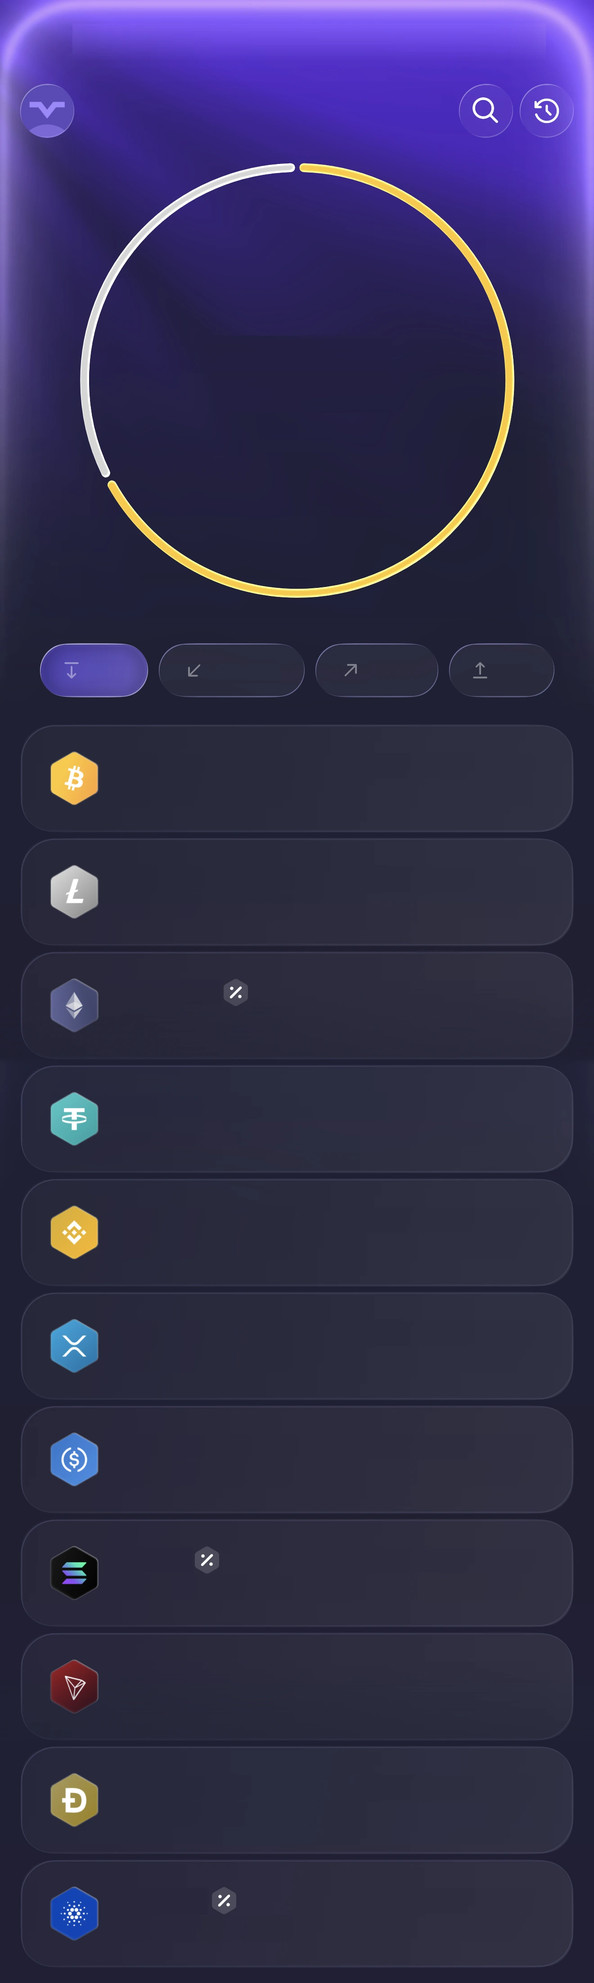
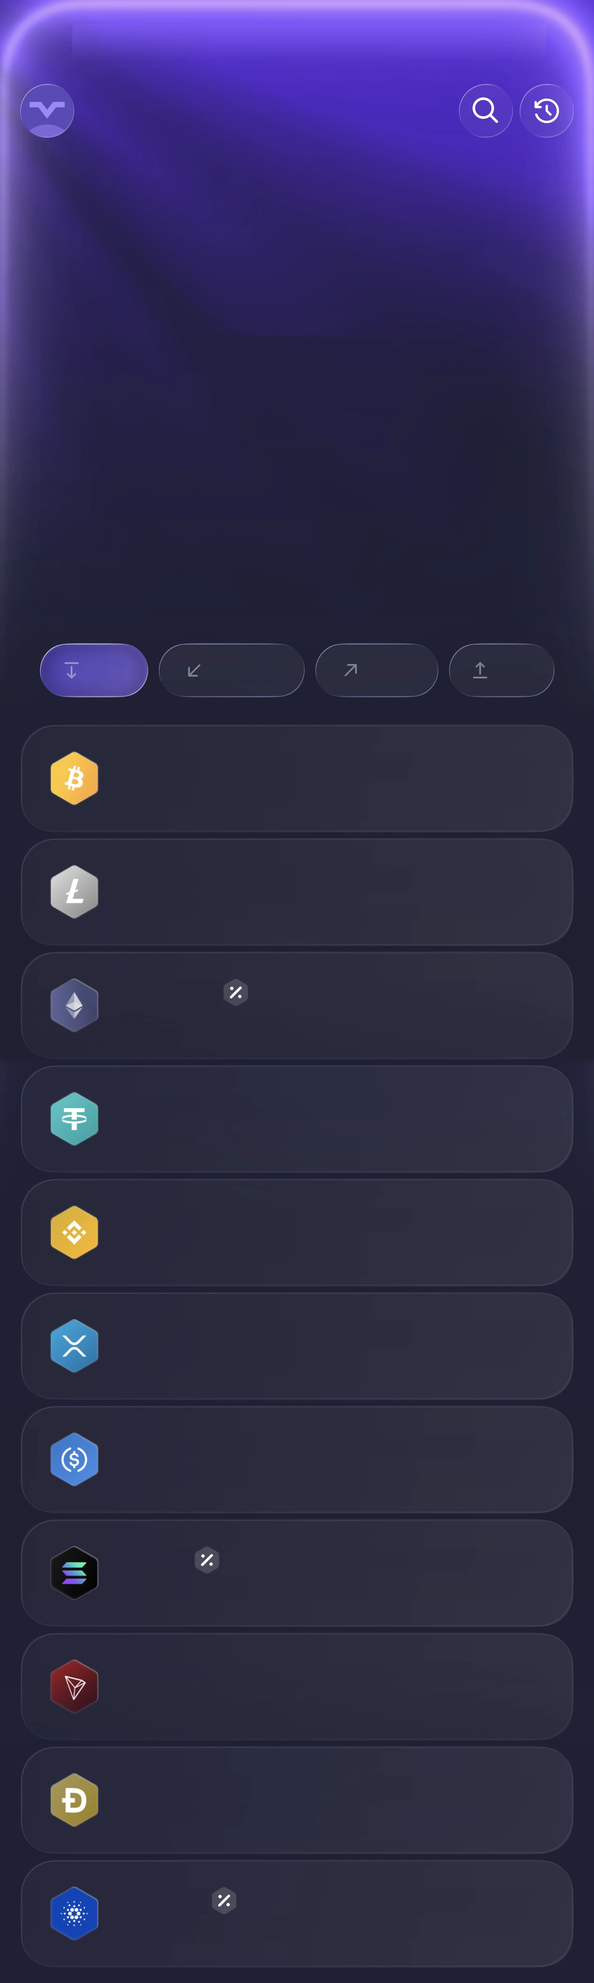
Wallet: ring split by coin value, balance shrinks to fit, remove hidden-balance dots
Claude-Session: https://claude.ai/code/session_01SBE1Cu7BgedHNHESR53XK2

diff --git a/walletui/cfg.js b/walletui/cfg.js
@@ -1,1 +1,1 @@
-const CFG={"wallet": {"ar": 0.29986369831894594, "items": [{"runs": [], "a": "l", "op": 1, "erase": true, "mode": "v", "box": [12.196969696969697, 1.1812812358019082, 79.6969696969697, 1.9763743752839618]}, {"runs": [{"t": "$", "s": 4.777, "c": "#8a8aa0", "w": 500}, {"t": "18", "s": 16.287, "c": "#ffffff", "w": 600}, {"t": ".18", "s": 6.08, "c": "#8a8aa0", "w": 500}], "a": "c", "op": 1, "erase": true, "k": "bal", "box": [35.833333333333336, 16.924125397546568, 30.37878787878788, 3.907314856883235]}, {"runs": [{"t": "$", "s": 4.777, "c": "#8a8aa0", "w": 500}, {"t": "\u25cf\u25cf\u25cf\u25cf\u25cf", "s": 3.692, "c": "#ffffff", "w": 500}], "a": "c", "op": 1, "erase": false, "k": "dots", "hid": true, "box": [33.63636363636363, 18.400726942298956, 30.454545454545457, 1.6129032258064515]}, {"runs": [{"t": "Wallet", "s": 3.257, "c": "#a6a6b6", "w": 500}], "a": "c", "op": 1, "erase": true, "box": [43.93939393939394, 21.33121308496138, 12.196969696969697, 1.4538845979100408]}, {"runs": [{"t": "Buy", "s": 3.257, "c": "#ffffff", "w": 500}], "a": "l", "op": 1, "erase": true, "box": [15.0, 33.28032712403453, 6.0606060606060606, 1.1585642889595638]}, {"runs": [{"t": "Receive", "s": 3.257, "c": "#a6a6b6", "w": 500}], "a": "l", "op": 1, "erase": true, "box": [35.90909090909091, 33.28032712403453, 11.212121212121213, 1.1585642889595638]}, {"runs": [{"t": "Send", "s": 3.257, "c": "#a6a6b6", "w": 500}], "a": "l", "op": 1, "erase": true, "box": [62.196969696969695, 33.28032712403453, 7.5, 1.1585642889595638]}, {"runs": [{"t": "Sell", "s": 3.257, "c": "#a6a6b6", "w": 500}], "a": "l", "op": 1, "erase": true, "box": [84.01515151515152, 33.28032712403453, 5.454545454545454, 1.1585642889595638]}, {"runs": [{"t": "Bitcoin", "s": 3.583, "c": "#ffffff", "w": 600}], "a": "l", "op": 1, "erase": true, "box": [20.37878787878788, 38.00545206724216, 32.57575757575758, 1.29486597001363]}, {"runs": [{"t": "$81,582.00 ", "s": 3.149, "c": "#a6a6b6", "w": 500}], "a": "l", "op": 1, "erase": true, "k": "price", "s": "BTC", "box": [20.37878787878788, 39.368468877782824, 29.015151515151516, 1.29486597001363]}, {"runs": [{"t": "0", "s": 3.583, "c": "#ffffff", "w": 600}], "a": "r", "op": 1, "erase": true, "k": "amt", "s": "BTC", "box": [58.63636363636363, 38.00545206724216, 33.63636363636363, 1.29486597001363]}, {"runs": [{"t": "$0", "s": 3.149, "c": "#a6a6b6", "w": 500}], "a": "r", "op": 1, "erase": true, "k": "fiat", "s": "BTC", "box": [73.86363636363636, 39.368468877782824, 18.409090909090907, 1.29486597001363]}, {"runs": [{"t": "BTC", "s": 3.583, "c": "#d8d8e4", "w": 600}], "a": "r", "op": 1, "erase": true, "k": "sym", "s": "BTC", "box": [79.77272727272727, 38.52794184461608, 12.727272727272727, 1.4311676510676965]}, {"runs": [{"t": "Litecoin", "s": 3.583, "c": "#ffffff", "w": 600}], "a": "l", "op": 1, "erase": true, "box": [20.37878787878788, 43.68468877782826, 32.57575757575758, 1.3175829168559745]}, {"runs": [{"t": "$59.31 ", "s": 3.149, "c": "#a6a6b6", "w": 500}, {"t": "+0.5%", "s": 3.149, "c": "#6bd62a", "w": 500}], "a": "l", "op": 1, "erase": true, "k": "price", "s": "LTC", "box": [20.37878787878788, 45.07042253521127, 29.015151515151516, 1.29486597001363]}, {"runs": [{"t": "0", "s": 3.583, "c": "#ffffff", "w": 600}], "a": "r", "op": 1, "erase": true, "k": "amt", "s": "LTC", "box": [58.63636363636363, 43.68468877782826, 33.63636363636363, 1.3175829168559745]}, {"runs": [{"t": "$0", "s": 3.149, "c": "#a6a6b6", "w": 500}], "a": "r", "op": 1, "erase": true, "k": "fiat", "s": "LTC", "box": [73.86363636363636, 45.07042253521127, 18.409090909090907, 1.29486597001363]}, {"runs": [{"t": "LTC", "s": 3.583, "c": "#d8d8e4", "w": 600}], "a": "r", "op": 1, "erase": true, "k": "sym", "s": "LTC", "box": [79.77272727272727, 44.207178555202184, 12.727272727272727, 1.4311676510676965]}, {"runs": [{"t": "Ethereum", "s": 3.583, "c": "#ffffff", "w": 600}], "a": "l", "op": 1, "erase": true, "mode": "f", "box": [20.37878787878788, 49.386642435256704, 16.893939393939394, 1.3175829168559745]}, {"runs": [{"t": "$2,386.95 ", "s": 3.149, "c": "#a6a6b6", "w": 500}, {"t": "-1.4%", "s": 3.149, "c": "#8a8a9a", "w": 500}], "a": "l", "op": 1, "erase": true, "k": "price", "s": "ETH", "box": [20.37878787878788, 50.74965924579736, 29.015151515151516, 1.3175829168559745]}, {"runs": [{"t": "0", "s": 3.583, "c": "#ffffff", "w": 600}], "a": "r", "op": 1, "erase": true, "k": "amt", "s": "ETH", "box": [58.63636363636363, 49.386642435256704, 33.63636363636363, 1.3175829168559745]}, {"runs": [{"t": "$0", "s": 3.149, "c": "#a6a6b6", "w": 500}], "a": "r", "op": 1, "erase": true, "k": "fiat", "s": "ETH", "box": [73.86363636363636, 50.74965924579736, 18.409090909090907, 1.3175829168559745]}, {"runs": [{"t": "ETH", "s": 3.583, "c": "#d8d8e4", "w": 600}], "a": "r", "op": 1, "erase": true, "k": "sym", "s": "ETH", "box": [79.77272727272727, 49.909132212630624, 12.727272727272727, 1.4311676510676965]}, {"runs": [{"t": "Tether USD", "s": 3.583, "c": "#ffffff", "w": 600}], "a": "l", "op": 1, "erase": true, "box": [20.37878787878788, 55.11131303952749, 32.57575757575758, 1.29486597001363]}, {"runs": [{"t": "$0.9991 ", "s": 3.149, "c": "#a6a6b6", "w": 500}, {"t": "+0.9%", "s": 3.149, "c": "#6bd62a", "w": 500}], "a": "l", "op": 1, "erase": true, "k": "price", "s": "USDT", "box": [20.37878787878788, 56.47432985006815, 29.015151515151516, 1.29486597001363]}, {"runs": [{"t": "0", "s": 3.583, "c": "#ffffff", "w": 600}], "a": "r", "op": 1, "erase": true, "k": "amt", "s": "USDT", "box": [58.63636363636363, 55.11131303952749, 33.63636363636363, 1.29486597001363]}, {"runs": [{"t": "$0", "s": 3.149, "c": "#a6a6b6", "w": 500}], "a": "r", "op": 1, "erase": true, "k": "fiat", "s": "USDT", "box": [73.86363636363636, 56.47432985006815, 18.409090909090907, 1.29486597001363]}, {"runs": [{"t": "USDT", "s": 3.583, "c": "#d8d8e4", "w": 600}], "a": "r", "op": 1, "erase": true, "k": "sym", "s": "USDT", "box": [79.77272727272727, 55.633802816901415, 12.727272727272727, 1.4311676510676965]}, {"runs": [{"t": "BNB", "s": 3.583, "c": "#ffffff", "w": 600}], "a": "l", "op": 1, "erase": true, "box": [20.37878787878788, 60.83598364379827, 32.57575757575758, 1.29486597001363]}, {"runs": [{"t": "$727.43 ", "s": 3.149, "c": "#a6a6b6", "w": 500}, {"t": "-0.5%", "s": 3.149, "c": "#8a8a9a", "w": 500}], "a": "l", "op": 1, "erase": true, "k": "price", "s": "BNB", "box": [20.37878787878788, 62.199000454338936, 29.015151515151516, 1.3175829168559745]}, {"runs": [{"t": "0", "s": 3.583, "c": "#ffffff", "w": 600}], "a": "r", "op": 1, "erase": true, "k": "amt", "s": "BNB", "box": [58.63636363636363, 60.83598364379827, 33.63636363636363, 1.29486597001363]}, {"runs": [{"t": "$0", "s": 3.149, "c": "#a6a6b6", "w": 500}], "a": "r", "op": 1, "erase": true, "k": "fiat", "s": "BNB", "box": [73.86363636363636, 62.199000454338936, 18.409090909090907, 1.3175829168559745]}, {"runs": [{"t": "BNB", "s": 3.583, "c": "#d8d8e4", "w": 600}], "a": "r", "op": 1, "erase": true, "k": "sym", "s": "BNB", "box": [79.77272727272727, 61.3584734211722, 12.727272727272727, 1.4311676510676965]}, {"runs": [{"t": "XRP", "s": 3.583, "c": "#ffffff", "w": 600}], "a": "l", "op": 1, "erase": true, "box": [20.37878787878788, 66.56065424806906, 32.57575757575758, 1.3175829168559745]}, {"runs": [{"t": "$1.32 ", "s": 3.149, "c": "#a6a6b6", "w": 500}, {"t": "-1.4%", "s": 3.149, "c": "#8a8a9a", "w": 500}], "a": "l", "op": 1, "erase": true, "k": "price", "s": "XRP", "box": [20.37878787878788, 67.92367105860973, 29.015151515151516, 1.3175829168559745]}, {"runs": [{"t": "0", "s": 3.583, "c": "#ffffff", "w": 600}], "a": "r", "op": 1, "erase": true, "k": "amt", "s": "XRP", "box": [58.63636363636363, 66.56065424806906, 33.63636363636363, 1.3175829168559745]}, {"runs": [{"t": "$0", "s": 3.149, "c": "#a6a6b6", "w": 500}], "a": "r", "op": 1, "erase": true, "k": "fiat", "s": "XRP", "box": [73.86363636363636, 67.92367105860973, 18.409090909090907, 1.3175829168559745]}, {"runs": [{"t": "XRP", "s": 3.583, "c": "#d8d8e4", "w": 600}], "a": "r", "op": 1, "erase": true, "k": "sym", "s": "XRP", "box": [79.77272727272727, 67.08314402544298, 12.727272727272727, 1.4311676510676965]}, {"runs": [{"t": "USDC", "s": 3.583, "c": "#ffffff", "w": 600}], "a": "l", "op": 1, "erase": true, "box": [20.37878787878788, 72.28532485233985, 32.57575757575758, 1.3175829168559745]}, {"runs": [{"t": "$0.9996 ", "s": 3.149, "c": "#a6a6b6", "w": 500}, {"t": "+0.2%", "s": 3.149, "c": "#6bd62a", "w": 500}], "a": "l", "op": 1, "erase": true, "k": "price", "s": "USDC", "box": [20.37878787878788, 73.67105860972285, 29.015151515151516, 1.29486597001363]}, {"runs": [{"t": "0", "s": 3.583, "c": "#ffffff", "w": 600}], "a": "r", "op": 1, "erase": true, "k": "amt", "s": "USDC", "box": [58.63636363636363, 72.28532485233985, 33.63636363636363, 1.3175829168559745]}, {"runs": [{"t": "$0", "s": 3.149, "c": "#a6a6b6", "w": 500}], "a": "r", "op": 1, "erase": true, "k": "fiat", "s": "USDC", "box": [73.86363636363636, 73.67105860972285, 18.409090909090907, 1.29486597001363]}, {"runs": [{"t": "USDC", "s": 3.583, "c": "#d8d8e4", "w": 600}], "a": "r", "op": 1, "erase": true, "k": "sym", "s": "USDC", "box": [79.77272727272727, 72.80781462971376, 12.727272727272727, 1.4311676510676965]}, {"runs": [{"t": "Solana", "s": 3.583, "c": "#ffffff", "w": 600}], "a": "l", "op": 1, "erase": true, "mode": "f", "box": [20.37878787878788, 78.03271240345298, 12.196969696969697, 1.29486597001363]}, {"runs": [{"t": "$104.18 ", "s": 3.149, "c": "#a6a6b6", "w": 500}, {"t": "+0.5%", "s": 3.149, "c": "#6bd62a", "w": 500}], "a": "l", "op": 1, "erase": true, "k": "price", "s": "SOL", "box": [20.37878787878788, 79.39572921399363, 29.015151515151516, 1.29486597001363]}, {"runs": [{"t": "0", "s": 3.583, "c": "#ffffff", "w": 600}], "a": "r", "op": 1, "erase": true, "k": "amt", "s": "SOL", "box": [58.63636363636363, 78.03271240345298, 33.63636363636363, 1.29486597001363]}, {"runs": [{"t": "$0", "s": 3.149, "c": "#a6a6b6", "w": 500}], "a": "r", "op": 1, "erase": true, "k": "fiat", "s": "SOL", "box": [73.86363636363636, 79.39572921399363, 18.409090909090907, 1.29486597001363]}, {"runs": [{"t": "SOL", "s": 3.583, "c": "#d8d8e4", "w": 600}], "a": "r", "op": 1, "erase": true, "k": "sym", "s": "SOL", "box": [79.77272727272727, 78.5552021808269, 12.727272727272727, 1.4311676510676965]}, {"runs": [{"t": "Tron", "s": 3.583, "c": "#ffffff", "w": 600}], "a": "l", "op": 1, "erase": true, "box": [20.37878787878788, 83.75738300772376, 32.57575757575758, 1.29486597001363]}, {"runs": [{"t": "$0.3299 ", "s": 3.149, "c": "#a6a6b6", "w": 500}, {"t": "-0.1%", "s": 3.149, "c": "#8a8a9a", "w": 500}], "a": "l", "op": 1, "erase": true, "k": "price", "s": "TRX", "box": [20.37878787878788, 85.12039981826443, 29.015151515151516, 1.29486597001363]}, {"runs": [{"t": "0", "s": 3.583, "c": "#ffffff", "w": 600}], "a": "r", "op": 1, "erase": true, "k": "amt", "s": "TRX", "box": [58.63636363636363, 83.75738300772376, 33.63636363636363, 1.29486597001363]}, {"runs": [{"t": "$0", "s": 3.149, "c": "#a6a6b6", "w": 500}], "a": "r", "op": 1, "erase": true, "k": "fiat", "s": "TRX", "box": [73.86363636363636, 85.12039981826443, 18.409090909090907, 1.29486597001363]}, {"runs": [{"t": "TRX", "s": 3.583, "c": "#d8d8e4", "w": 600}], "a": "r", "op": 1, "erase": true, "k": "sym", "s": "TRX", "box": [79.77272727272727, 84.27987278509768, 12.727272727272727, 1.4311676510676965]}, {"runs": [{"t": "Dogecoin", "s": 3.583, "c": "#ffffff", "w": 600}], "a": "l", "op": 1, "erase": true, "box": [20.37878787878788, 89.50477055883688, 32.57575757575758, 1.29486597001363]}, {"runs": [{"t": "$0.0794 ", "s": 3.149, "c": "#a6a6b6", "w": 500}, {"t": "-2.6%", "s": 3.149, "c": "#8a8a9a", "w": 500}], "a": "l", "op": 1, "erase": true, "k": "price", "s": "DOGE", "box": [20.37878787878788, 90.86778736937755, 29.015151515151516, 1.29486597001363]}, {"runs": [{"t": "0", "s": 3.583, "c": "#ffffff", "w": 600}], "a": "r", "op": 1, "erase": true, "k": "amt", "s": "DOGE", "box": [58.63636363636363, 89.50477055883688, 33.63636363636363, 1.29486597001363]}, {"runs": [{"t": "$0", "s": 3.149, "c": "#a6a6b6", "w": 500}], "a": "r", "op": 1, "erase": true, "k": "fiat", "s": "DOGE", "box": [73.86363636363636, 90.86778736937755, 18.409090909090907, 1.29486597001363]}, {"runs": [{"t": "DOGE", "s": 3.583, "c": "#d8d8e4", "w": 600}], "a": "r", "op": 1, "erase": true, "k": "sym", "s": "DOGE", "box": [79.77272727272727, 90.02726033621082, 12.727272727272727, 1.4311676510676965]}, {"runs": [{"t": "Cardano", "s": 3.583, "c": "#ffffff", "w": 600}], "a": "l", "op": 1, "erase": true, "mode": "f", "box": [20.37878787878788, 95.22944116310768, 14.545454545454545, 1.3175829168559745]}, {"runs": [{"t": "$0.2255 ", "s": 3.149, "c": "#a6a6b6", "w": 500}, {"t": "-0.9%", "s": 3.149, "c": "#8a8a9a", "w": 500}], "a": "l", "op": 1, "erase": true, "k": "price", "s": "ADA", "box": [20.37878787878788, 96.59245797364834, 29.015151515151516, 1.3175829168559745]}, {"runs": [{"t": "0", "s": 3.583, "c": "#ffffff", "w": 600}], "a": "r", "op": 1, "erase": true, "k": "amt", "s": "ADA", "box": [58.63636363636363, 95.22944116310768, 33.63636363636363, 1.3175829168559745]}, {"runs": [{"t": "$0", "s": 3.149, "c": "#a6a6b6", "w": 500}], "a": "r", "op": 1, "erase": true, "k": "fiat", "s": "ADA", "box": [73.86363636363636, 96.59245797364834, 18.409090909090907, 1.3175829168559745]}, {"runs": [{"t": "ADA", "s": 3.583, "c": "#d8d8e4", "w": 600}], "a": "r", "op": 1, "erase": true, "k": "sym", "s": "ADA", "box": [79.77272727272727, 95.7519309404816, 12.727272727272727, 1.4311676510676965]}]}, "cash": {"ar": 0.4602510460251046, "items": [{"runs": [], "a": "l", "op": 1, "erase": true, "mode": "v", "box": [12.196969696969697, 1.813110181311018, 79.6969696969697, 3.0334728033472804]}, {"runs": [], "a": "l", "op": 1, "erase": true, "mode": "v", "box": [24.09090909090909, 31.485355648535563, 51.89393939393939, 7.705718270571828]}, {"runs": [{"t": "Add money", "s": 3.257, "c": "#ffffff", "w": 500}], "a": "l", "op": 1, "erase": true, "box": [44.31818181818182, 50.976290097629004, 16.060606060606062, 1.882845188284519]}, {"runs": [{"t": "Unlock your reward", "s": 3.583, "c": "#ffffff", "w": 600}], "a": "l", "op": 1, "erase": true, "box": [10.303030303030303, 60.46025104602511, 35.303030303030305, 2.092050209205021]}, {"runs": [{"t": "Get started and complete\nyour first steps.", "s": 3.257, "c": "#b4b8b8", "w": 500}], "a": "l", "op": 1, "erase": true, "box": [10.303030303030303, 63.354253835425375, 38.56060606060606, 3.8702928870292883]}, {"runs": [{"t": "Start", "s": 3.257, "c": "#ffffff", "w": 600}], "a": "c", "op": 1, "erase": true, "box": [13.863636363636363, 76.11576011157601, 7.878787878787878, 2.0571827057182706]}]}, "swap": {"ar": 0.4602510460251046, "items": [{"runs": [], "a": "l", "op": 1, "erase": true, "mode": "v", "box": [12.196969696969697, 1.813110181311018, 79.6969696969697, 3.0334728033472804]}, {"runs": [{"t": "Swap", "s": 3.474, "c": "#a6a6b6", "w": 500}], "a": "c", "op": 1, "erase": true, "box": [43.40909090909091, 6.903765690376569, 13.257575757575758, 2.1966527196652716]}, {"runs": [{"t": "I have 0.100129 Litecoin", "s": 3.149, "c": "#c8c8d6", "w": 500}], "a": "l", "op": 1, "erase": true, "box": [5.227272727272727, 12.133891213389122, 34.92424242424242, 1.9525801952580195]}, {"runs": [{"t": "0 LTC", "s": 3.149, "c": "#a6a6b6", "w": 500}], "a": "r", "op": 1, "erase": true, "box": [84.69696969696969, 12.133891213389122, 11.06060606060606, 1.8479776847977685]}, {"runs": [{"t": "LTC", "s": 3.366, "c": "#ffffff", "w": 500}], "a": "l", "op": 1, "erase": true, "box": [16.818181818181817, 17.398884239888424, 7.2727272727272725, 1.9874476987447698]}, {"runs": [{"t": "$", "s": 8.686, "c": "#7c7c90", "w": 700}, {"t": "0.00", "s": 8.686, "c": "#ffffff", "w": 700}], "a": "r", "op": 1, "erase": true, "box": [70.60606060606061, 16.248256624825665, 24.924242424242422, 3.730822873082287]}, {"runs": [{"t": "I want", "s": 3.149, "c": "#c8c8d6", "w": 500}], "a": "l", "op": 1, "erase": true, "box": [5.227272727272727, 26.88284518828452, 9.393939393939393, 1.9525801952580195]}, {"runs": [{"t": "0 BTC", "s": 3.149, "c": "#a6a6b6", "w": 500}], "a": "r", "op": 1, "erase": true, "box": [84.16666666666667, 26.88284518828452, 11.59090909090909, 1.8479776847977685]}, {"runs": [{"t": "BTC", "s": 3.366, "c": "#ffffff", "w": 500}], "a": "l", "op": 1, "erase": true, "box": [16.818181818181817, 32.14783821478382, 7.727272727272727, 1.9874476987447698]}, {"runs": [{"t": "$", "s": 8.686, "c": "#7c7c90", "w": 700}, {"t": "0.00", "s": 8.686, "c": "#ffffff", "w": 700}], "a": "r", "op": 1, "erase": true, "box": [70.60606060606061, 30.997210599721058, 24.924242424242422, 3.8702928870292883]}, {"runs": [{"t": "Min", "s": 3.474, "c": "#a6a6b6", "w": 500}], "a": "c", "op": 1, "erase": true, "box": [36.666666666666664, 40.86471408647141, 6.742424242424243, 2.0223152022315203]}, {"runs": [{"t": "Max", "s": 3.474, "c": "#a6a6b6", "w": 500}], "a": "c", "op": 1, "erase": true, "box": [56.21212121212121, 40.86471408647141, 7.6515151515151505, 2.0223152022315203]}, {"runs": [{"t": "Swap services are available\nthrough third-party providers.", "s": 2.714, "c": "#6c6e82", "w": 500}], "a": "c", "op": 1, "erase": true, "box": [29.318181818181817, 82.74058577405857, 41.28787878787879, 3.417015341701534]}]}, "add": {"ar": 0.9947249434815373, "items": [{"runs": [{"t": "Add money", "s": 3.692, "c": "#a6a6b6", "w": 500}], "a": "c", "op": 1, "erase": true, "box": [39.09090909090909, 8.063300678221552, 21.893939393939394, 4.52147701582517]}, {"runs": [{"t": "Request", "s": 3.474, "c": "#ffffff", "w": 500}], "a": "l", "op": 1, "erase": true, "box": [12.803030303030303, 20.57272042200452, 13.257575757575758, 4.1446872645064055]}, {"runs": [{"t": "Stablecoins", "s": 3.474, "c": "#ffffff", "w": 500}], "a": "l", "op": 1, "erase": true, "box": [12.803030303030303, 35.26752072343633, 18.106060606060606, 4.370761115297664]}, {"runs": [{"t": "Apple Pay", "s": 3.474, "c": "#ffffff", "w": 500}], "a": "l", "op": 1, "erase": true, "box": [12.803030303030303, 49.962321024868125, 15.681818181818183, 4.370761115297664]}, {"runs": [{"t": "Debit card", "s": 3.474, "c": "#ffffff", "w": 500}], "a": "l", "op": 1, "erase": true, "box": [12.803030303030303, 64.65712132629993, 16.060606060606062, 4.370761115297664]}, {"runs": [{"t": "Balances and cash references reflect digital\nassets held in your self-custodial account.", "s": 3.149, "c": "#a6a6b6", "w": 500}], "a": "l", "op": 1, "erase": true, "box": [18.257575757575758, 78.52298417483044, 66.43939393939394, 8.816880180859082]}]}, "ptop": {"ar": 1.1891891891891893, "items": [{"runs": [{"t": "$", "s": 4.394, "c": "#8a8aa0", "w": 500}, {"t": "17", "s": 17.424, "c": "#ffffff", "w": 600}, {"t": ".88", "s": 6.061, "c": "#8a8aa0", "w": 500}], "a": "c", "op": 1, "erase": true, "box": [36.74242424242424, 16.666666666666664, 26.515151515151516, 14.414414414414415]}, {"runs": [{"t": "Portfolio", "s": 3.182, "c": "#a6a6b6", "w": 500}], "a": "c", "op": 1, "erase": true, "box": [42.42424242424242, 35.13513513513514, 15.151515151515152, 4.504504504504505]}, {"runs": [{"t": "Cash", "s": 3.182, "c": "#d4d4de", "w": 500}], "a": "l", "op": 1, "erase": true, "box": [21.96969696969697, 53.873873873873876, 8.333333333333332, 4.504504504504505]}, {"runs": [{"t": "$0", "s": 3.182, "c": "#ffffff", "w": 500}], "a": "r", "op": 1, "erase": true, "box": [75.0, 53.873873873873876, 4.924242424242424, 4.504504504504505]}, {"runs": [{"t": "0%", "s": 3.182, "c": "#a6a6b6", "w": 500}], "a": "r", "op": 1, "erase": true, "box": [83.71212121212122, 53.873873873873876, 6.4393939393939394, 4.504504504504505]}, {"runs": [{"t": "Wallet", "s": 3.182, "c": "#d4d4de", "w": 500}], "a": "l", "op": 1, "erase": true, "box": [21.96969696969697, 74.41441441441441, 9.848484848484848, 4.684684684684685]}, {"runs": [{"t": "$17.88", "s": 3.182, "c": "#ffffff", "w": 500}], "a": "r", "op": 1, "erase": true, "box": [69.31818181818183, 74.41441441441441, 10.378787878787879, 4.684684684684685]}, {"runs": [{"t": "100%", "s": 3.182, "c": "#a6a6b6", "w": 500}], "a": "r", "op": 1, "erase": true, "box": [81.06060606060606, 74.41441441441441, 9.090909090909092, 4.684684684684685]}, {"runs": [{"t": "Wallet", "s": 3.182, "c": "#a6a6b6", "w": 500}], "a": "c", "op": 1, "erase": true, "box": [44.696969696969695, 93.24324324324324, 10.606060606060606, 4.684684684684685]}]}, "pbot": {"ar": 6.502463054187192, "items": [{"runs": [{"t": "Portfolio Age: 4 Days", "s": 2.879, "c": "#a6a6b6", "w": 500}], "a": "c", "op": 1, "erase": true, "box": [35.60606060606061, 17.24137931034483, 28.78787878787879, 22.660098522167488]}]}};
+const CFG={"wallet": {"ar": 0.29986369831894594, "items": [{"runs": [], "a": "l", "op": 1, "erase": true, "mode": "v", "box": [12.196969696969697, 1.1812812358019082, 79.6969696969697, 1.9763743752839618]}, {"runs": [{"t": "$", "s": 4.777, "c": "#8a8aa0", "w": 500}, {"t": "18", "s": 16.287, "c": "#ffffff", "w": 600}, {"t": ".18", "s": 6.08, "c": "#8a8aa0", "w": 500}], "a": "c", "op": 1, "erase": true, "k": "bal", "box": [35.833333333333336, 16.924125397546568, 30.37878787878788, 3.907314856883235]}, {"runs": [{"t": "Wallet", "s": 3.257, "c": "#a6a6b6", "w": 500}], "a": "c", "op": 1, "erase": true, "box": [43.93939393939394, 21.33121308496138, 12.196969696969697, 1.4538845979100408]}, {"runs": [{"t": "Buy", "s": 3.257, "c": "#ffffff", "w": 500}], "a": "l", "op": 1, "erase": true, "box": [15.0, 33.28032712403453, 6.0606060606060606, 1.1585642889595638]}, {"runs": [{"t": "Receive", "s": 3.257, "c": "#a6a6b6", "w": 500}], "a": "l", "op": 1, "erase": true, "box": [35.90909090909091, 33.28032712403453, 11.212121212121213, 1.1585642889595638]}, {"runs": [{"t": "Send", "s": 3.257, "c": "#a6a6b6", "w": 500}], "a": "l", "op": 1, "erase": true, "box": [62.196969696969695, 33.28032712403453, 7.5, 1.1585642889595638]}, {"runs": [{"t": "Sell", "s": 3.257, "c": "#a6a6b6", "w": 500}], "a": "l", "op": 1, "erase": true, "box": [84.01515151515152, 33.28032712403453, 5.454545454545454, 1.1585642889595638]}, {"runs": [{"t": "Bitcoin", "s": 3.583, "c": "#ffffff", "w": 600}], "a": "l", "op": 1, "erase": true, "box": [20.37878787878788, 38.00545206724216, 32.57575757575758, 1.29486597001363]}, {"runs": [{"t": "$81,582.00 ", "s": 3.149, "c": "#a6a6b6", "w": 500}], "a": "l", "op": 1, "erase": true, "k": "price", "s": "BTC", "box": [20.37878787878788, 39.368468877782824, 29.015151515151516, 1.29486597001363]}, {"runs": [{"t": "0", "s": 3.583, "c": "#ffffff", "w": 600}], "a": "r", "op": 1, "erase": true, "k": "amt", "s": "BTC", "box": [58.63636363636363, 38.00545206724216, 33.63636363636363, 1.29486597001363]}, {"runs": [{"t": "$0", "s": 3.149, "c": "#a6a6b6", "w": 500}], "a": "r", "op": 1, "erase": true, "k": "fiat", "s": "BTC", "box": [73.86363636363636, 39.368468877782824, 18.409090909090907, 1.29486597001363]}, {"runs": [{"t": "BTC", "s": 3.583, "c": "#d8d8e4", "w": 600}], "a": "r", "op": 1, "erase": true, "k": "sym", "s": "BTC", "box": [79.77272727272727, 38.52794184461608, 12.727272727272727, 1.4311676510676965]}, {"runs": [{"t": "Litecoin", "s": 3.583, "c": "#ffffff", "w": 600}], "a": "l", "op": 1, "erase": true, "box": [20.37878787878788, 43.68468877782826, 32.57575757575758, 1.3175829168559745]}, {"runs": [{"t": "$59.31 ", "s": 3.149, "c": "#a6a6b6", "w": 500}, {"t": "+0.5%", "s": 3.149, "c": "#6bd62a", "w": 500}], "a": "l", "op": 1, "erase": true, "k": "price", "s": "LTC", "box": [20.37878787878788, 45.07042253521127, 29.015151515151516, 1.29486597001363]}, {"runs": [{"t": "0", "s": 3.583, "c": "#ffffff", "w": 600}], "a": "r", "op": 1, "erase": true, "k": "amt", "s": "LTC", "box": [58.63636363636363, 43.68468877782826, 33.63636363636363, 1.3175829168559745]}, {"runs": [{"t": "$0", "s": 3.149, "c": "#a6a6b6", "w": 500}], "a": "r", "op": 1, "erase": true, "k": "fiat", "s": "LTC", "box": [73.86363636363636, 45.07042253521127, 18.409090909090907, 1.29486597001363]}, {"runs": [{"t": "LTC", "s": 3.583, "c": "#d8d8e4", "w": 600}], "a": "r", "op": 1, "erase": true, "k": "sym", "s": "LTC", "box": [79.77272727272727, 44.207178555202184, 12.727272727272727, 1.4311676510676965]}, {"runs": [{"t": "Ethereum", "s": 3.583, "c": "#ffffff", "w": 600}], "a": "l", "op": 1, "erase": true, "mode": "f", "box": [20.37878787878788, 49.386642435256704, 16.893939393939394, 1.3175829168559745]}, {"runs": [{"t": "$2,386.95 ", "s": 3.149, "c": "#a6a6b6", "w": 500}, {"t": "-1.4%", "s": 3.149, "c": "#8a8a9a", "w": 500}], "a": "l", "op": 1, "erase": true, "k": "price", "s": "ETH", "box": [20.37878787878788, 50.74965924579736, 29.015151515151516, 1.3175829168559745]}, {"runs": [{"t": "0", "s": 3.583, "c": "#ffffff", "w": 600}], "a": "r", "op": 1, "erase": true, "k": "amt", "s": "ETH", "box": [58.63636363636363, 49.386642435256704, 33.63636363636363, 1.3175829168559745]}, {"runs": [{"t": "$0", "s": 3.149, "c": "#a6a6b6", "w": 500}], "a": "r", "op": 1, "erase": true, "k": "fiat", "s": "ETH", "box": [73.86363636363636, 50.74965924579736, 18.409090909090907, 1.3175829168559745]}, {"runs": [{"t": "ETH", "s": 3.583, "c": "#d8d8e4", "w": 600}], "a": "r", "op": 1, "erase": true, "k": "sym", "s": "ETH", "box": [79.77272727272727, 49.909132212630624, 12.727272727272727, 1.4311676510676965]}, {"runs": [{"t": "Tether USD", "s": 3.583, "c": "#ffffff", "w": 600}], "a": "l", "op": 1, "erase": true, "box": [20.37878787878788, 55.11131303952749, 32.57575757575758, 1.29486597001363]}, {"runs": [{"t": "$0.9991 ", "s": 3.149, "c": "#a6a6b6", "w": 500}, {"t": "+0.9%", "s": 3.149, "c": "#6bd62a", "w": 500}], "a": "l", "op": 1, "erase": true, "k": "price", "s": "USDT", "box": [20.37878787878788, 56.47432985006815, 29.015151515151516, 1.29486597001363]}, {"runs": [{"t": "0", "s": 3.583, "c": "#ffffff", "w": 600}], "a": "r", "op": 1, "erase": true, "k": "amt", "s": "USDT", "box": [58.63636363636363, 55.11131303952749, 33.63636363636363, 1.29486597001363]}, {"runs": [{"t": "$0", "s": 3.149, "c": "#a6a6b6", "w": 500}], "a": "r", "op": 1, "erase": true, "k": "fiat", "s": "USDT", "box": [73.86363636363636, 56.47432985006815, 18.409090909090907, 1.29486597001363]}, {"runs": [{"t": "USDT", "s": 3.583, "c": "#d8d8e4", "w": 600}], "a": "r", "op": 1, "erase": true, "k": "sym", "s": "USDT", "box": [79.77272727272727, 55.633802816901415, 12.727272727272727, 1.4311676510676965]}, {"runs": [{"t": "BNB", "s": 3.583, "c": "#ffffff", "w": 600}], "a": "l", "op": 1, "erase": true, "box": [20.37878787878788, 60.83598364379827, 32.57575757575758, 1.29486597001363]}, {"runs": [{"t": "$727.43 ", "s": 3.149, "c": "#a6a6b6", "w": 500}, {"t": "-0.5%", "s": 3.149, "c": "#8a8a9a", "w": 500}], "a": "l", "op": 1, "erase": true, "k": "price", "s": "BNB", "box": [20.37878787878788, 62.199000454338936, 29.015151515151516, 1.3175829168559745]}, {"runs": [{"t": "0", "s": 3.583, "c": "#ffffff", "w": 600}], "a": "r", "op": 1, "erase": true, "k": "amt", "s": "BNB", "box": [58.63636363636363, 60.83598364379827, 33.63636363636363, 1.29486597001363]}, {"runs": [{"t": "$0", "s": 3.149, "c": "#a6a6b6", "w": 500}], "a": "r", "op": 1, "erase": true, "k": "fiat", "s": "BNB", "box": [73.86363636363636, 62.199000454338936, 18.409090909090907, 1.3175829168559745]}, {"runs": [{"t": "BNB", "s": 3.583, "c": "#d8d8e4", "w": 600}], "a": "r", "op": 1, "erase": true, "k": "sym", "s": "BNB", "box": [79.77272727272727, 61.3584734211722, 12.727272727272727, 1.4311676510676965]}, {"runs": [{"t": "XRP", "s": 3.583, "c": "#ffffff", "w": 600}], "a": "l", "op": 1, "erase": true, "box": [20.37878787878788, 66.56065424806906, 32.57575757575758, 1.3175829168559745]}, {"runs": [{"t": "$1.32 ", "s": 3.149, "c": "#a6a6b6", "w": 500}, {"t": "-1.4%", "s": 3.149, "c": "#8a8a9a", "w": 500}], "a": "l", "op": 1, "erase": true, "k": "price", "s": "XRP", "box": [20.37878787878788, 67.92367105860973, 29.015151515151516, 1.3175829168559745]}, {"runs": [{"t": "0", "s": 3.583, "c": "#ffffff", "w": 600}], "a": "r", "op": 1, "erase": true, "k": "amt", "s": "XRP", "box": [58.63636363636363, 66.56065424806906, 33.63636363636363, 1.3175829168559745]}, {"runs": [{"t": "$0", "s": 3.149, "c": "#a6a6b6", "w": 500}], "a": "r", "op": 1, "erase": true, "k": "fiat", "s": "XRP", "box": [73.86363636363636, 67.92367105860973, 18.409090909090907, 1.3175829168559745]}, {"runs": [{"t": "XRP", "s": 3.583, "c": "#d8d8e4", "w": 600}], "a": "r", "op": 1, "erase": true, "k": "sym", "s": "XRP", "box": [79.77272727272727, 67.08314402544298, 12.727272727272727, 1.4311676510676965]}, {"runs": [{"t": "USDC", "s": 3.583, "c": "#ffffff", "w": 600}], "a": "l", "op": 1, "erase": true, "box": [20.37878787878788, 72.28532485233985, 32.57575757575758, 1.3175829168559745]}, {"runs": [{"t": "$0.9996 ", "s": 3.149, "c": "#a6a6b6", "w": 500}, {"t": "+0.2%", "s": 3.149, "c": "#6bd62a", "w": 500}], "a": "l", "op": 1, "erase": true, "k": "price", "s": "USDC", "box": [20.37878787878788, 73.67105860972285, 29.015151515151516, 1.29486597001363]}, {"runs": [{"t": "0", "s": 3.583, "c": "#ffffff", "w": 600}], "a": "r", "op": 1, "erase": true, "k": "amt", "s": "USDC", "box": [58.63636363636363, 72.28532485233985, 33.63636363636363, 1.3175829168559745]}, {"runs": [{"t": "$0", "s": 3.149, "c": "#a6a6b6", "w": 500}], "a": "r", "op": 1, "erase": true, "k": "fiat", "s": "USDC", "box": [73.86363636363636, 73.67105860972285, 18.409090909090907, 1.29486597001363]}, {"runs": [{"t": "USDC", "s": 3.583, "c": "#d8d8e4", "w": 600}], "a": "r", "op": 1, "erase": true, "k": "sym", "s": "USDC", "box": [79.77272727272727, 72.80781462971376, 12.727272727272727, 1.4311676510676965]}, {"runs": [{"t": "Solana", "s": 3.583, "c": "#ffffff", "w": 600}], "a": "l", "op": 1, "erase": true, "mode": "f", "box": [20.37878787878788, 78.03271240345298, 12.196969696969697, 1.29486597001363]}, {"runs": [{"t": "$104.18 ", "s": 3.149, "c": "#a6a6b6", "w": 500}, {"t": "+0.5%", "s": 3.149, "c": "#6bd62a", "w": 500}], "a": "l", "op": 1, "erase": true, "k": "price", "s": "SOL", "box": [20.37878787878788, 79.39572921399363, 29.015151515151516, 1.29486597001363]}, {"runs": [{"t": "0", "s": 3.583, "c": "#ffffff", "w": 600}], "a": "r", "op": 1, "erase": true, "k": "amt", "s": "SOL", "box": [58.63636363636363, 78.03271240345298, 33.63636363636363, 1.29486597001363]}, {"runs": [{"t": "$0", "s": 3.149, "c": "#a6a6b6", "w": 500}], "a": "r", "op": 1, "erase": true, "k": "fiat", "s": "SOL", "box": [73.86363636363636, 79.39572921399363, 18.409090909090907, 1.29486597001363]}, {"runs": [{"t": "SOL", "s": 3.583, "c": "#d8d8e4", "w": 600}], "a": "r", "op": 1, "erase": true, "k": "sym", "s": "SOL", "box": [79.77272727272727, 78.5552021808269, 12.727272727272727, 1.4311676510676965]}, {"runs": [{"t": "Tron", "s": 3.583, "c": "#ffffff", "w": 600}], "a": "l", "op": 1, "erase": true, "box": [20.37878787878788, 83.75738300772376, 32.57575757575758, 1.29486597001363]}, {"runs": [{"t": "$0.3299 ", "s": 3.149, "c": "#a6a6b6", "w": 500}, {"t": "-0.1%", "s": 3.149, "c": "#8a8a9a", "w": 500}], "a": "l", "op": 1, "erase": true, "k": "price", "s": "TRX", "box": [20.37878787878788, 85.12039981826443, 29.015151515151516, 1.29486597001363]}, {"runs": [{"t": "0", "s": 3.583, "c": "#ffffff", "w": 600}], "a": "r", "op": 1, "erase": true, "k": "amt", "s": "TRX", "box": [58.63636363636363, 83.75738300772376, 33.63636363636363, 1.29486597001363]}, {"runs": [{"t": "$0", "s": 3.149, "c": "#a6a6b6", "w": 500}], "a": "r", "op": 1, "erase": true, "k": "fiat", "s": "TRX", "box": [73.86363636363636, 85.12039981826443, 18.409090909090907, 1.29486597001363]}, {"runs": [{"t": "TRX", "s": 3.583, "c": "#d8d8e4", "w": 600}], "a": "r", "op": 1, "erase": true, "k": "sym", "s": "TRX", "box": [79.77272727272727, 84.27987278509768, 12.727272727272727, 1.4311676510676965]}, {"runs": [{"t": "Dogecoin", "s": 3.583, "c": "#ffffff", "w": 600}], "a": "l", "op": 1, "erase": true, "box": [20.37878787878788, 89.50477055883688, 32.57575757575758, 1.29486597001363]}, {"runs": [{"t": "$0.0794 ", "s": 3.149, "c": "#a6a6b6", "w": 500}, {"t": "-2.6%", "s": 3.149, "c": "#8a8a9a", "w": 500}], "a": "l", "op": 1, "erase": true, "k": "price", "s": "DOGE", "box": [20.37878787878788, 90.86778736937755, 29.015151515151516, 1.29486597001363]}, {"runs": [{"t": "0", "s": 3.583, "c": "#ffffff", "w": 600}], "a": "r", "op": 1, "erase": true, "k": "amt", "s": "DOGE", "box": [58.63636363636363, 89.50477055883688, 33.63636363636363, 1.29486597001363]}, {"runs": [{"t": "$0", "s": 3.149, "c": "#a6a6b6", "w": 500}], "a": "r", "op": 1, "erase": true, "k": "fiat", "s": "DOGE", "box": [73.86363636363636, 90.86778736937755, 18.409090909090907, 1.29486597001363]}, {"runs": [{"t": "DOGE", "s": 3.583, "c": "#d8d8e4", "w": 600}], "a": "r", "op": 1, "erase": true, "k": "sym", "s": "DOGE", "box": [79.77272727272727, 90.02726033621082, 12.727272727272727, 1.4311676510676965]}, {"runs": [{"t": "Cardano", "s": 3.583, "c": "#ffffff", "w": 600}], "a": "l", "op": 1, "erase": true, "mode": "f", "box": [20.37878787878788, 95.22944116310768, 14.545454545454545, 1.3175829168559745]}, {"runs": [{"t": "$0.2255 ", "s": 3.149, "c": "#a6a6b6", "w": 500}, {"t": "-0.9%", "s": 3.149, "c": "#8a8a9a", "w": 500}], "a": "l", "op": 1, "erase": true, "k": "price", "s": "ADA", "box": [20.37878787878788, 96.59245797364834, 29.015151515151516, 1.3175829168559745]}, {"runs": [{"t": "0", "s": 3.583, "c": "#ffffff", "w": 600}], "a": "r", "op": 1, "erase": true, "k": "amt", "s": "ADA", "box": [58.63636363636363, 95.22944116310768, 33.63636363636363, 1.3175829168559745]}, {"runs": [{"t": "$0", "s": 3.149, "c": "#a6a6b6", "w": 500}], "a": "r", "op": 1, "erase": true, "k": "fiat", "s": "ADA", "box": [73.86363636363636, 96.59245797364834, 18.409090909090907, 1.3175829168559745]}, {"runs": [{"t": "ADA", "s": 3.583, "c": "#d8d8e4", "w": 600}], "a": "r", "op": 1, "erase": true, "k": "sym", "s": "ADA", "box": [79.77272727272727, 95.7519309404816, 12.727272727272727, 1.4311676510676965]}]}, "cash": {"ar": 0.4602510460251046, "items": [{"runs": [], "a": "l", "op": 1, "erase": true, "mode": "v", "box": [12.196969696969697, 1.813110181311018, 79.6969696969697, 3.0334728033472804]}, {"runs": [], "a": "l", "op": 1, "erase": true, "mode": "v", "box": [24.09090909090909, 31.485355648535563, 51.89393939393939, 7.705718270571828]}, {"runs": [{"t": "Add money", "s": 3.257, "c": "#ffffff", "w": 500}], "a": "l", "op": 1, "erase": true, "box": [44.31818181818182, 50.976290097629004, 16.060606060606062, 1.882845188284519]}, {"runs": [{"t": "Unlock your reward", "s": 3.583, "c": "#ffffff", "w": 600}], "a": "l", "op": 1, "erase": true, "box": [10.303030303030303, 60.46025104602511, 35.303030303030305, 2.092050209205021]}, {"runs": [{"t": "Get started and complete\nyour first steps.", "s": 3.257, "c": "#b4b8b8", "w": 500}], "a": "l", "op": 1, "erase": true, "box": [10.303030303030303, 63.354253835425375, 38.56060606060606, 3.8702928870292883]}, {"runs": [{"t": "Start", "s": 3.257, "c": "#ffffff", "w": 600}], "a": "c", "op": 1, "erase": true, "box": [13.863636363636363, 76.11576011157601, 7.878787878787878, 2.0571827057182706]}]}, "swap": {"ar": 0.4602510460251046, "items": [{"runs": [], "a": "l", "op": 1, "erase": true, "mode": "v", "box": [12.196969696969697, 1.813110181311018, 79.6969696969697, 3.0334728033472804]}, {"runs": [{"t": "Swap", "s": 3.474, "c": "#a6a6b6", "w": 500}], "a": "c", "op": 1, "erase": true, "box": [43.40909090909091, 6.903765690376569, 13.257575757575758, 2.1966527196652716]}, {"runs": [{"t": "I have 0.100129 Litecoin", "s": 3.149, "c": "#c8c8d6", "w": 500}], "a": "l", "op": 1, "erase": true, "box": [5.227272727272727, 12.133891213389122, 34.92424242424242, 1.9525801952580195]}, {"runs": [{"t": "0 LTC", "s": 3.149, "c": "#a6a6b6", "w": 500}], "a": "r", "op": 1, "erase": true, "box": [84.69696969696969, 12.133891213389122, 11.06060606060606, 1.8479776847977685]}, {"runs": [{"t": "LTC", "s": 3.366, "c": "#ffffff", "w": 500}], "a": "l", "op": 1, "erase": true, "box": [16.818181818181817, 17.398884239888424, 7.2727272727272725, 1.9874476987447698]}, {"runs": [{"t": "$", "s": 8.686, "c": "#7c7c90", "w": 700}, {"t": "0.00", "s": 8.686, "c": "#ffffff", "w": 700}], "a": "r", "op": 1, "erase": true, "box": [70.60606060606061, 16.248256624825665, 24.924242424242422, 3.730822873082287]}, {"runs": [{"t": "I want", "s": 3.149, "c": "#c8c8d6", "w": 500}], "a": "l", "op": 1, "erase": true, "box": [5.227272727272727, 26.88284518828452, 9.393939393939393, 1.9525801952580195]}, {"runs": [{"t": "0 BTC", "s": 3.149, "c": "#a6a6b6", "w": 500}], "a": "r", "op": 1, "erase": true, "box": [84.16666666666667, 26.88284518828452, 11.59090909090909, 1.8479776847977685]}, {"runs": [{"t": "BTC", "s": 3.366, "c": "#ffffff", "w": 500}], "a": "l", "op": 1, "erase": true, "box": [16.818181818181817, 32.14783821478382, 7.727272727272727, 1.9874476987447698]}, {"runs": [{"t": "$", "s": 8.686, "c": "#7c7c90", "w": 700}, {"t": "0.00", "s": 8.686, "c": "#ffffff", "w": 700}], "a": "r", "op": 1, "erase": true, "box": [70.60606060606061, 30.997210599721058, 24.924242424242422, 3.8702928870292883]}, {"runs": [{"t": "Min", "s": 3.474, "c": "#a6a6b6", "w": 500}], "a": "c", "op": 1, "erase": true, "box": [36.666666666666664, 40.86471408647141, 6.742424242424243, 2.0223152022315203]}, {"runs": [{"t": "Max", "s": 3.474, "c": "#a6a6b6", "w": 500}], "a": "c", "op": 1, "erase": true, "box": [56.21212121212121, 40.86471408647141, 7.6515151515151505, 2.0223152022315203]}, {"runs": [{"t": "Swap services are available\nthrough third-party providers.", "s": 2.714, "c": "#6c6e82", "w": 500}], "a": "c", "op": 1, "erase": true, "box": [29.318181818181817, 82.74058577405857, 41.28787878787879, 3.417015341701534]}]}, "add": {"ar": 0.9947249434815373, "items": [{"runs": [{"t": "Add money", "s": 3.692, "c": "#a6a6b6", "w": 500}], "a": "c", "op": 1, "erase": true, "box": [39.09090909090909, 8.063300678221552, 21.893939393939394, 4.52147701582517]}, {"runs": [{"t": "Request", "s": 3.474, "c": "#ffffff", "w": 500}], "a": "l", "op": 1, "erase": true, "box": [12.803030303030303, 20.57272042200452, 13.257575757575758, 4.1446872645064055]}, {"runs": [{"t": "Stablecoins", "s": 3.474, "c": "#ffffff", "w": 500}], "a": "l", "op": 1, "erase": true, "box": [12.803030303030303, 35.26752072343633, 18.106060606060606, 4.370761115297664]}, {"runs": [{"t": "Apple Pay", "s": 3.474, "c": "#ffffff", "w": 500}], "a": "l", "op": 1, "erase": true, "box": [12.803030303030303, 49.962321024868125, 15.681818181818183, 4.370761115297664]}, {"runs": [{"t": "Debit card", "s": 3.474, "c": "#ffffff", "w": 500}], "a": "l", "op": 1, "erase": true, "box": [12.803030303030303, 64.65712132629993, 16.060606060606062, 4.370761115297664]}, {"runs": [{"t": "Balances and cash references reflect digital\nassets held in your self-custodial account.", "s": 3.149, "c": "#a6a6b6", "w": 500}], "a": "l", "op": 1, "erase": true, "box": [18.257575757575758, 78.52298417483044, 66.43939393939394, 8.816880180859082]}]}, "ptop": {"ar": 1.1891891891891893, "items": [{"runs": [{"t": "$", "s": 4.394, "c": "#8a8aa0", "w": 500}, {"t": "17", "s": 17.424, "c": "#ffffff", "w": 600}, {"t": ".88", "s": 6.061, "c": "#8a8aa0", "w": 500}], "a": "c", "op": 1, "erase": true, "box": [36.74242424242424, 16.666666666666664, 26.515151515151516, 14.414414414414415]}, {"runs": [{"t": "Portfolio", "s": 3.182, "c": "#a6a6b6", "w": 500}], "a": "c", "op": 1, "erase": true, "box": [42.42424242424242, 35.13513513513514, 15.151515151515152, 4.504504504504505]}, {"runs": [{"t": "Cash", "s": 3.182, "c": "#d4d4de", "w": 500}], "a": "l", "op": 1, "erase": true, "box": [21.96969696969697, 53.873873873873876, 8.333333333333332, 4.504504504504505]}, {"runs": [{"t": "$0", "s": 3.182, "c": "#ffffff", "w": 500}], "a": "r", "op": 1, "erase": true, "box": [75.0, 53.873873873873876, 4.924242424242424, 4.504504504504505]}, {"runs": [{"t": "0%", "s": 3.182, "c": "#a6a6b6", "w": 500}], "a": "r", "op": 1, "erase": true, "box": [83.71212121212122, 53.873873873873876, 6.4393939393939394, 4.504504504504505]}, {"runs": [{"t": "Wallet", "s": 3.182, "c": "#d4d4de", "w": 500}], "a": "l", "op": 1, "erase": true, "box": [21.96969696969697, 74.41441441441441, 9.848484848484848, 4.684684684684685]}, {"runs": [{"t": "$17.88", "s": 3.182, "c": "#ffffff", "w": 500}], "a": "r", "op": 1, "erase": true, "box": [69.31818181818183, 74.41441441441441, 10.378787878787879, 4.684684684684685]}, {"runs": [{"t": "100%", "s": 3.182, "c": "#a6a6b6", "w": 500}], "a": "r", "op": 1, "erase": true, "box": [81.06060606060606, 74.41441441441441, 9.090909090909092, 4.684684684684685]}, {"runs": [{"t": "Wallet", "s": 3.182, "c": "#a6a6b6", "w": 500}], "a": "c", "op": 1, "erase": true, "box": [44.696969696969695, 93.24324324324324, 10.606060606060606, 4.684684684684685]}]}, "pbot": {"ar": 6.502463054187192, "items": [{"runs": [{"t": "Portfolio Age: 4 Days", "s": 2.879, "c": "#a6a6b6", "w": 500}], "a": "c", "op": 1, "erase": true, "box": [35.60606060606061, 17.24137931034483, 28.78787878787879, 22.660098522167488]}]}};

diff --git a/walletui/index.html b/walletui/index.html
@@ -13,8 +13,9 @@ html,body{margin:0;width:100%;height:100%;background:#1d1d36;color:#fff;overflow
 .scroller{position:absolute;inset:0;overflow-y:auto;overflow-x:hidden;overscroll-behavior:contain;scrollbar-width:none;-webkit-overflow-scrolling:touch}
 .scroller::-webkit-scrollbar{display:none}
 .content{position:relative;width:100%}
-.tx[data-hidden]{display:none}
-.hid .tx[data-hidden]{display:flex}.hid .tx[data-k=bal]{display:none}
+#ring{position:absolute;pointer-events:none;overflow:visible}
+#ring.in{animation:ringIn .6s cubic-bezier(.2,.8,.2,1)}
+@keyframes ringIn{from{opacity:0;transform:rotate(-40deg) scale(.96)}to{opacity:1;transform:none}}
 .nav{position:absolute;left:20.4%;width:59.4%;bottom:3.45%;aspect-ratio:547/151;border-radius:999px;z-index:3;transition:transform .3s ease,opacity .3s}
 .nav img{position:absolute;inset:0;width:100%;height:100%;display:block;border-radius:999px;opacity:0;transition:opacity .2s;pointer-events:none}
 .nav[data-t=wallet] .iw,.nav[data-t=swap] .is,.nav[data-t=cash] .ic{opacity:1}
@@ -101,9 +102,9 @@ function build(key,parent){
   c.items.forEach(it=>{
     if(!it.runs.length)return;
     const d=$('<div class="tx '+it.a+'"></div>');
-    if(it.k)d.dataset.k=it.k;if(it.s)d.dataset.s=it.s;if(it.hid)d.dataset.hidden='1';
+    if(it.k)d.dataset.k=it.k;if(it.s)d.dataset.s=it.s;
     d.style.cssText=`left:${it.box[0]}%;top:${it.box[1]}%;width:${it.box[2]}%;height:${it.box[3]}%;opacity:${it.op}`;
-    it.runs.forEach(r=>{const e=document.createElement('span');e.textContent=r.t;e.style.cssText=`font-size:${r.s}cqw;color:${r.c};font-weight:${r.w}`;d.appendChild(e)});
+    it.runs.forEach(r=>{const e=document.createElement('span');e.textContent=r.t;e.style.cssText=`font-size:calc(${r.s}cqw*var(--sc,1));color:${r.c};font-weight:${r.w}`;d.appendChild(e)});
     host.appendChild(d)});
   parent.appendChild(s);return s}
 // hotspots in 921x2000 space
@@ -135,7 +136,6 @@ const W=scr.wallet,CH=921/CFG.wallet.ar;
 const nav=$('<div class="nav" data-t="wallet"><img class="iw" src="'+imgSrc('navw')+'" alt=""><img class="ic" src="'+imgSrc('navc')+'" alt=""><img class="is" src="'+imgSrc('navs')+'" alt=""></div>');
 [['wallet','Wallet',0],['swap','Swap',33.3],['cash','Cash',66.6]].forEach(([k,l,x])=>{const b=$('<button type="button" aria-label="'+l+'"></button>');b.style.left=x+'%';b.onclick=()=>go(k);nav.appendChild(b)});
 P.appendChild(nav);
-hs(W.content,130,250,800,925,()=>{W.content.classList.toggle('hid');render()},CH);
 hs(W.content,30,125,118,215,openPort,CH);
 (()=>{let last=0;W.scroller.addEventListener('scroll',()=>{const y=W.scroller.scrollTop;
   if(y>last+4&&y>150)nav.classList.add('away');else if(y<last-4||y<150)nav.classList.remove('away');last=y},{passive:true})})();
@@ -166,13 +166,32 @@ const R={
  pBal:find(portS,(t,d)=>d.children.length===3&&d.children[1].textContent==='17'),
  pCash:find(portS,t=>t==='$0'),pCashP:find(portS,t=>t==='0%'),pWal:find(portS,(t,d)=>d.children.length===1&&t==='$17.88'),pWalP:find(portS,t=>t==='100%')};
 const setT=(d,t)=>{d.children[0].textContent=t};
+function fit(d,cq){d.style.setProperty('--sc',1);const sw=d.closest('.screen').getBoundingClientRect().width;if(!sw)return;
+  const w=[...d.children].reduce((s,e)=>s+e.getBoundingClientRect().width,0);
+  d.style.setProperty('--sc',w?Math.max(.28,Math.min(1,cq/100*sw/w)):1)}
+/* coin ring around the balance: one arc per coin, sized by its value */
+const RING={cx:340,cy:340,r:329.3,sw:14};
+const ringSvg=$('<svg id="ring" viewBox="0 0 680 680" fill="none" stroke-linecap="round" aria-hidden="true"></svg>');
+ringSvg.style.cssText=`left:${(460.5-340)/9.21}%;top:${(590.3-340)/CH*100}%;width:${680/9.21}%;height:${680/CH*100}%`;
+W.content.appendChild(ringSvg);
+const NS='http://www.w3.org/2000/svg';
+function arc(a0,a1,col){const p=document.createElementNS(NS,'path'),pt=a=>[RING.cx+RING.r*Math.sin(a),RING.cy-RING.r*Math.cos(a)];
+  const [x0,y0]=pt(a0),[x1,y1]=pt(a1);p.setAttribute('d',`M${x0} ${y0}A${RING.r} ${RING.r} 0 ${a1-a0>Math.PI?1:0} 1 ${x1} ${y1}`);
+  p.setAttribute('stroke',col);p.setAttribute('stroke-width',RING.sw);ringSvg.appendChild(p)}
+function drawRing(list,total){
+  ringSvg.textContent='';
+  const cap=RING.sw/2/RING.r,gap=cap*2+7/RING.r;
+  if(!(total>0)){arc(gap/2,2*Math.PI-gap/2,'rgba(255,255,255,.14)');return}
+  const n=list.length,avail=2*Math.PI-n*gap;let a=gap/2;
+  list.forEach(o=>{const len=o.v/total*avail;
+    if(len<=cap*2)arc(a+len/2,a+len/2+.0001,o.col);else arc(a+cap,a+len-cap,o.col);a+=len+gap});
+  ringSvg.classList.remove('in');void ringSvg.getBoundingClientRect();ringSvg.classList.add('in')}
 const val=s=>D.c[s].amt*D.c[s].price;
 function render(){
-  const hidden=W.content.classList.contains('hid');
   const w=COINS.reduce((x,[s])=>x+val(s),0),all=w+D.cash,sp=n=>{const s=money(n).split('.');return[s[0],'.'+s[1]]};
   const bw=sp(w);R.wBal.children[1].textContent=bw[0];R.wBal.children[2].textContent=bw[1];
   const ba=sp(all);R.pBal.children[1].textContent=ba[0];R.pBal.children[2].textContent=ba[1];
-  COINS.forEach(([s])=>{const c=D.c[s],r=RW[s],show=c.amt>0&&!hidden;
+  COINS.forEach(([s])=>{const c=D.c[s],r=RW[s],show=c.amt>0;
     r.price.children[0].textContent='$'+fmtP(c.price)+' ';
     r.amt.children[0].textContent=amt(c.amt)+' '+s;r.fiat.children[0].textContent='$'+money(c.amt*c.price);
     r.amt.style.display=r.fiat.style.display=show?'':'none';r.sym.style.display=show?'none':''});
@@ -180,6 +199,7 @@ function render(){
   const pc=x=>all>0?Math.round(x/all*100)+'%':'0%';setT(R.pCashP,pc(D.cash));setT(R.pWalP,pc(w));
   pm.textContent='';
   const own=COINS.map(([s,n,,,col])=>({s,n,col,v:val(s)})).filter(o=>o.v>0).sort((a,b)=>b.v-a.v);
+  drawRing(own,w);fit(R.wBal,52);fit(R.pBal,64);
   if(!own.length){const e=$('<div class="none"></div>');e.textContent='Sin monedas todavía';pm.appendChild(e)}
   own.forEach(o=>{const r=$('<div class="pr"><img alt=""><div class="n"></div><div class="s"></div><div class="bar"><i></i></div><div class="p"></div><div class="u"></div></div>');
     const q=x=>r.querySelector(x),pct=o.v/w*100;
@@ -212,6 +232,7 @@ $e('eSave').onclick=()=>{D.cash=num($e('eCash').value);COINS.forEach(([s])=>{D.c
 $e('eReset').onclick=()=>{D=DEF();try{localStorage.removeItem('walletui2')}catch(e){}render();closeEdit()};
 W.extra.querySelector('.addmore').onclick=()=>openEdit();
 render();
+addEventListener('resize',render);
 
 /* ---------- hold the screen 1.5 s to open the editor ---------- */
 let timer=null,sx=0,sy=0,suppress=false;
